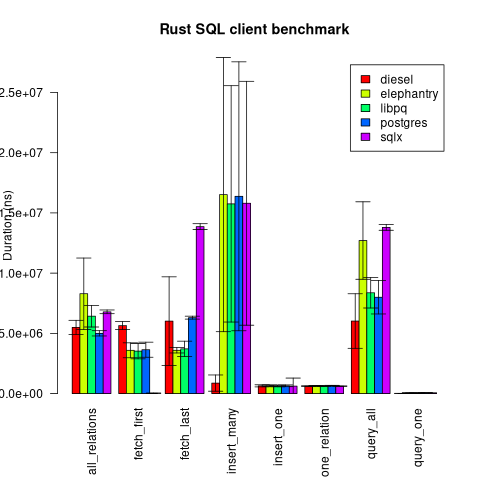
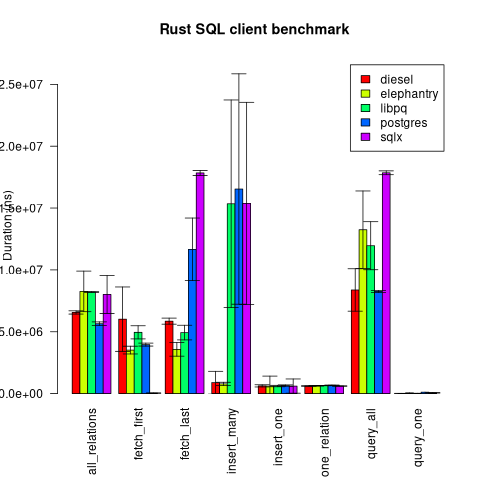
Uses uuid for id

diff --git a/diesel/src/lib.rs b/diesel/src/lib.rs
@@ -25,7 +25,7 @@ impl<'a> NewUser<'a> {
 
 diesel::table! {
     users {
-        id -> Serial,
+        id -> Uuid,
         name -> VarChar,
         hair_color -> Nullable<VarChar>,
         created_at -> Timestamp,
@@ -34,10 +34,10 @@ diesel::table! {
 
 diesel::table! {
     posts {
-        id -> Serial,
+        id -> Uuid,
         title -> Text,
         content -> Text,
-        author -> Integer,
+        author -> Uuid,
     }
 }
 
@@ -46,7 +46,7 @@ joinable!(posts -> users (author));
 
 #[derive(Clone, diesel::Queryable, Identifiable)]
 pub struct User {
-    id: i32,
+    id: uuid::Uuid,
     name: String,
     hair_color: Option<String>,
     created_at: chrono::NaiveDateTime,
@@ -57,15 +57,15 @@ pub struct User {
 pub struct NewPost {
     title: String,
     content: String,
-    author: i32,
+    author: uuid::Uuid,
 }
 
 impl NewPost {
-    fn new(id: usize, user_id: usize) -> Self {
+    fn new(id: usize, user_id: uuid::Uuid) -> Self {
         Self {
             title: format!("Post number {} for user {}", id, user_id),
             content: "abc".chars().cycle().take(500).collect::<String>(),
-            author: user_id as i32,
+            author: user_id,
         }
     }
 }
@@ -73,8 +73,8 @@ impl NewPost {
 #[derive(Queryable, Associations, Identifiable)]
 #[belongs_to(User, foreign_key = "author")]
 pub struct Post {
-    id: i32,
-    author: i32,
+    id: uuid::Uuid,
+    author: uuid::Uuid,
     title: String,
 }
 
@@ -131,7 +131,7 @@ impl elephantry_benchmark::Client for Connection {
 
     fn one_relation(&mut self) -> Result<(Self::User, Vec<String>), Self::Error> {
 
-        let users = users::table.find(42).first::<User>(&self.0)?;
+        let users = users::table.find(elephantry_benchmark::UUID).first::<User>(&self.0)?;
         let posts = Post::belonging_to(&users).select((posts::id, posts::author, posts::title)).load::<Post>(&self.0)?.into_iter().map(|Post{title, ..}| title).collect();
 
         Ok((users, posts))

diff --git a/elephantry/src/lib.rs b/elephantry/src/lib.rs
@@ -8,7 +8,7 @@ mod user {
     #[elephantry(model = "Model", structure = "Structure", relation = "public.users")]
     pub struct Entity {
         #[elephantry(pk)]
-        pub id: Option<i32>,
+        pub id: Option<uuid::Uuid>,
         pub name: String,
         pub hair_color: Option<String>,
         pub created_at: Option<chrono::NaiveDateTime>,
@@ -26,10 +26,20 @@ mod user {
                 posts: Vec::new(),
             }
         }
+
+        pub fn with_id(id: uuid::Uuid) -> Self {
+            Self {
+                id: Some(id),
+                name: format!("User"),
+                hair_color: Some(format!("hair color")),
+                created_at: Some(chrono::offset::Local::now().naive_local()),
+                posts: Vec::new(),
+            }
+        }
     }
 
     impl<'a> Model<'a> {
-        pub fn user_with_posts(&self, id: i32) -> Result<Entity, elephantry::Error> {
+        pub fn user_with_posts(&self, id: uuid::Uuid) -> Result<Entity, elephantry::Error> {
             use elephantry::Model;
 
             let query = r#"
@@ -90,6 +100,12 @@ impl elephantry_benchmark::Client for Connection {
             .map(|_| ())
     }
 
+    fn insert_users(&mut self, n: usize) -> Result<(), Self::Error> {
+        let users = (0..n).map(|_| user::Entity::with_id(uuid::Uuid::new_v4()));
+
+        self.0.copy::<user::Model, _>(users)
+    }
+
     fn fetch_all(&mut self) -> Result<Vec<Self::User>, Self::Error> {
         let results = self.0
             .find_all::<user::Model>(None)?
@@ -112,7 +128,7 @@ impl elephantry_benchmark::Client for Connection {
 
     fn one_relation(&mut self) -> Result<(Self::User, Vec<String>), Self::Error> {
         let user = self.0.model::<user::Model>()
-            .user_with_posts(42)?;
+            .user_with_posts(elephantry_benchmark::UUID)?;
         let posts = user.posts.clone();
 
         Ok((user, posts))

diff --git a/libpq/src/lib.rs b/libpq/src/lib.rs
@@ -4,7 +4,7 @@
 extern crate test;
 
 pub struct User {
-    pub id: i32,
+    pub id: uuid::Uuid,
     pub name: String,
     pub hair_color: Option<String>,
     pub created_at: Option<chrono::NaiveDateTime>,
@@ -120,6 +120,9 @@ impl elephantry_benchmark::Client for Connection {
     }
 
     fn one_relation(&mut self) -> Result<(Self::User, Vec<String>), Self::Error> {
+        let mut id = elephantry_benchmark::UUID.to_string().as_bytes().to_vec();
+        id.push(b'\0');
+
         let result = libpq::Connection::exec_params(
             &self.0,
 "select u.*, array_agg(p.title)
@@ -128,8 +131,8 @@ impl elephantry_benchmark::Client for Connection {
     where u.id = $1
     group by u.id, u.name, u.hair_color, u.created_at
             ",
-            &[libpq::types::INT8.oid],
-            &[Some(b"42\0".to_vec())],
+            &[libpq::types::UUID.oid],
+            &[Some(id)],
             &[libpq::Format::Text, libpq::Format::Text],
             libpq::Format::Text,
         );
@@ -147,9 +150,9 @@ impl elephantry_benchmark::Client for Connection {
     join posts p on p.author = u.id
     group by u.id, u.name, u.hair_color, u.created_at
             ",
-            &[libpq::types::INT8.oid],
             &[],
-            &[libpq::Format::Text, libpq::Format::Text],
+            &[],
+            &[],
             libpq::Format::Text,
         );
 

diff --git a/sqlx/src/lib.rs b/sqlx/src/lib.rs
@@ -5,7 +5,7 @@ extern crate test;
 
 #[derive(Clone, sqlx::FromRow)]
 pub struct User {
-    pub id: Option<i32>,
+    pub id: Option<uuid::Uuid>,
     pub name: String,
     pub hair_color: Option<String>,
     pub created_at: Option<chrono::NaiveDateTime>,
@@ -71,7 +71,7 @@ select u.*, array_agg(p.title) as posts
     group by u.id, u.name, u.hair_color, u.created_at
 "#;
         let user = async_std::task::block_on({
-            sqlx::query_as::<_, User>(query).bind(42).fetch_one(&mut self.0)
+            sqlx::query_as::<_, User>(query).bind(elephantry_benchmark::UUID).fetch_one(&mut self.0)
         })?;
         let posts = user.posts.clone().unwrap_or_default();
 

diff --git a/postgres/src/lib.rs b/postgres/src/lib.rs
@@ -4,7 +4,7 @@
 extern crate test;
 
 pub struct User {
-    id: i32,
+    id: uuid::Uuid,
     name: String,
     hair_color: Option<String>,
     created_at: chrono::NaiveDateTime,
@@ -88,7 +88,7 @@ select u.*, array_agg(p.title)
 "#;
 
         let user = self.0
-            .query(query, &[&42])?
+            .query(query, &[&elephantry_benchmark::UUID])?
             .iter()
             .map(User::from_row)
             .next()

diff --git a/src/lib.rs b/src/lib.rs
@@ -4,6 +4,9 @@
 
 extern crate test;
 
+// "85e11126-a41d-4dce-98f8-731a87685d2c"
+pub const UUID: uuid::Uuid = uuid::Uuid::from_u128(177955938094988552825808298658849381676);
+
 pub trait Client: Sized {
     type Error: Sized;
     type User: Sized;
